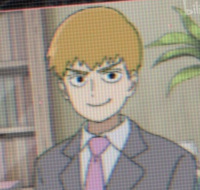
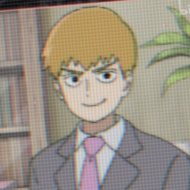
fix: img resize

diff --git a/logi.im/api/biz/friend.py b/logi.im/api/biz/friend.py
@@ -117,6 +117,20 @@ class FriendLinkDoctor:
             name = f'{IMG_PATH}/{identity}.{suffix}'
             img = Image.open(io.BytesIO(resp.content))
             img.thumbnail((200, 200))
+            width, height = img.size   # Get dimensions
+
+            if width != height:
+                new_width = min(width, height)
+                left = round((width - new_width)/2)
+                top = round((height - new_width)/2)
+                x_right = round(width - new_width) - left
+                x_bottom = round(height - new_width) - top
+                right = width - x_right
+                bottom = height - x_bottom
+
+                # Crop the center of the image
+                img = img.crop((left, top, right, bottom))
+
             img.save(name)
             friend['avatar'] = name
 
